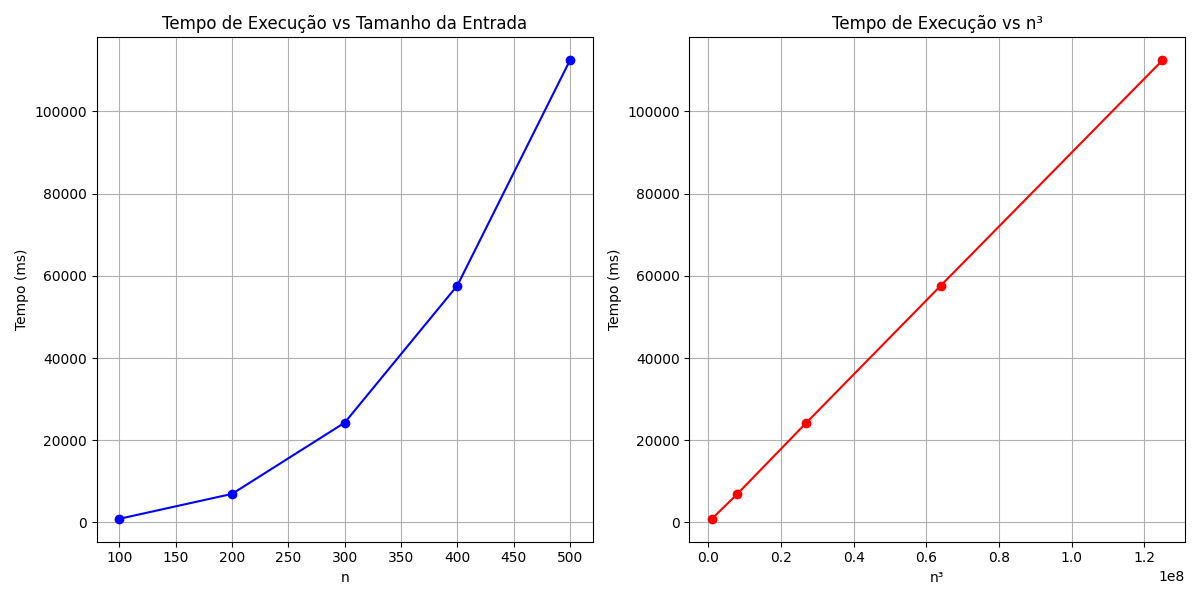
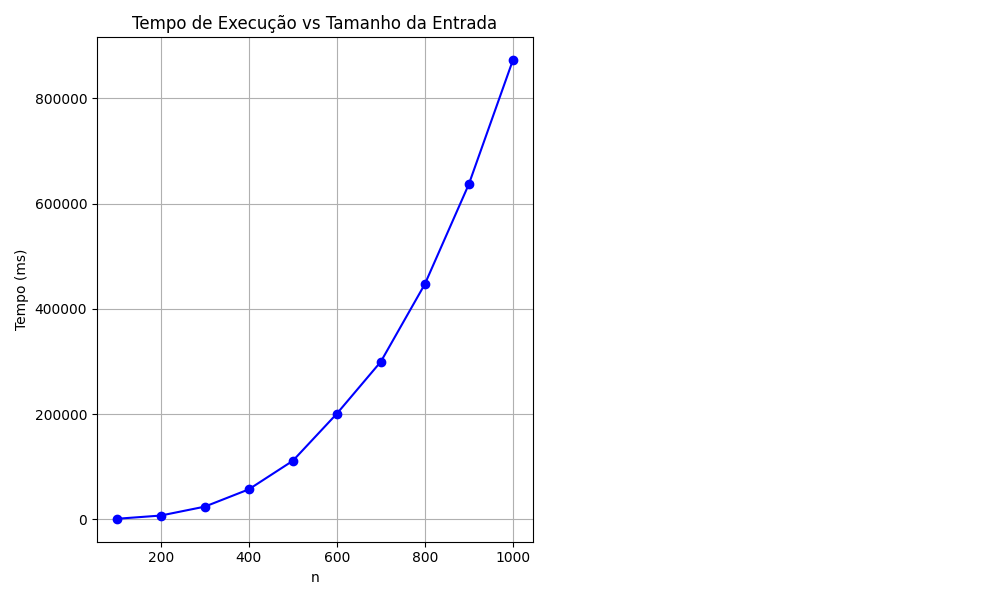
trabalho finalizado

diff --git a/analyze_results.py b/analyze_results.py
@@ -12,7 +12,6 @@ grafico_path = os.path.join(relatorios_dir, 'desempenho.png')
 
 # Processar dados
 df = pd.read_csv(csv_path)
-df['n³'] = df['n']**3
 df['log(tempo)'] = np.log(df['tempo_medio_ms'])
 
 # Calcular regressão linear para verificar complexidade
@@ -20,21 +19,13 @@ coef = np.polyfit(np.log(df['n']), np.log(df['tempo_medio_ms']), 1)
 expoente = coef[0]
 
 # Criar gráfico
-plt.figure(figsize=(12, 6))
+plt.figure(figsize=(10, 6))
 
 # Gráfico 1: Tempo vs n
 plt.subplot(1, 2, 1)
 plt.plot(df['n'], df['tempo_medio_ms'], 'bo-')
 plt.title('Tempo de Execução vs Tamanho da Entrada')
 plt.xlabel('n')
-plt.ylabel('Tempo (ms)')
-plt.grid(True)
-
-# Gráfico 2: Tempo vs n³ (para verificar proporcionalidade)
-plt.subplot(1, 2, 2)
-plt.plot(df['n³'], df['tempo_medio_ms'], 'ro-')
-plt.title('Tempo de Execução vs n³')
-plt.xlabel('n³')
 plt.ylabel('Tempo (ms)')
 plt.grid(True)
 
